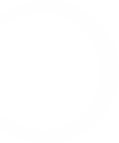
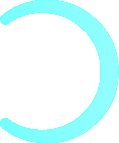
Added shields

Changed region(s): [[0.0, 0.0, 1.0, 1.0]]

diff --git a/Type/Scenes/GameScene.cs b/Type/Scenes/GameScene.cs
@@ -36,6 +36,8 @@ namespace Type.Scenes
         private readonly Button _FireButton;
         /// <summary> TODO Test button that adds probes </summary>
         private readonly Button _ProbeButton;
+        /// <summary> TODO Test button that adds shield </summary>
+        private readonly Button _ShieldButton;
         /// <summary> Floating analog stick </summary>
         private readonly AnalogStick _Stick;
         /// <summary> Text printer that displays the score </summary>
@@ -112,6 +114,14 @@ namespace Type.Scenes
                 Colour = new Vector4(1, 1, 1, (Single)0.5)
             };
             _ProbeButton = new Button(Int32.MaxValue, probeButton) { OnButtonPress = ProbeButtonOnPress };
+
+            Sprite shieldButton = new Sprite(Game.UiCanvas, Constants.ZOrders.UI, Texture.GetTexture("Content/Graphics/Buttons/shield_button.png"))
+            {
+                Position = new Vector2(320, -450),
+                Visible = true,
+                Colour = new Vector4(1, 1, 1, (Single)0.5)
+            };
+            _ShieldButton = new Button(Int32.MaxValue, shieldButton) { OnButtonPress = ShieldButtonPress };
 
             _Stick = new AnalogStick(new Vector2(-620, -220), 110);
             _Stick.RegisterListener(_Player);
@@ -200,6 +210,7 @@ namespace Type.Scenes
         {
             _FireButton.TouchEnabled = state;
             _ProbeButton.TouchEnabled = state;
+            _ShieldButton.TouchEnabled = state;
             _Stick.TouchEnabled = state;
         }
 
@@ -207,6 +218,7 @@ namespace Type.Scenes
         {
             _FireButton.Visible = state;
             _ProbeButton.Visible = state;
+            _ShieldButton.Visible = state;
             _Stick.Visible = state;
             _Stick.ListeningForMove = state;
         }
@@ -224,6 +236,11 @@ namespace Type.Scenes
         private void ProbeButtonOnPress(Button obj)
         {
             _Player.CreateProbes(1, 0);
+        }
+
+        private void ShieldButtonPress(Button obj)
+        {
+            _Player.AddShield();
         }
 
         #endregion

diff --git a/Type/Objects/Player/Player.cs b/Type/Objects/Player/Player.cs
@@ -85,9 +85,7 @@ namespace Type.Objects.Player
             _ProbeController.UpdatePosition(Position);
 
             _Shield = new Shield();
-            _Shield.Increase();
-            _Shield.Increase();
-            _Shield.Increase();
+            _Shield.UpdatePosition(Position);
 
             CollisionController.Instance.RegisterPlayer(this);
         }
@@ -104,6 +102,14 @@ namespace Type.Objects.Player
                 _ProbeController.AddProbe(0);
             }
             new AudioPlayer("Content/Audio/upgrade1.wav", false, AudioManager.Category.EFFECT, 1);
+        }
+
+        /// <summary>
+        /// Increases the shield level
+        /// </summary>
+        public void AddShield()
+        {
+            _Shield.Increase();
         }
 
         /// <summary>
@@ -196,5 +202,6 @@ namespace Type.Objects.Player
             onDeath.Invoke();
             OnDeath?.Invoke();
         }
+
     }
 }

diff --git a/Type/Objects/Enemies/BaseEnemy.cs b/Type/Objects/Enemies/BaseEnemy.cs
@@ -121,12 +121,19 @@ namespace Type.Objects.Enemies
             }
         }
 
+        public void Collide()
+        {
+            _HitPoints = 0;
+            _IsDestroyed = true;
+            new AudioPlayer("Content/Audio/hurt3.wav", false, AudioManager.Category.EFFECT, 1);
+            Destroy();
+        }
+
         /// <summary>
         /// Destroys the Enemy
         /// </summary>
         public virtual void Destroy()
         {
-            _HitPoints = 0;
             IsAlive = false;
             if (_IsDestroyed)
             {

diff --git a/Type/Controllers/CollisionController.cs b/Type/Controllers/CollisionController.cs
@@ -181,9 +181,13 @@ namespace Type.Controllers
             enemy.Hit();
         }
 
+        /// <summary>
+        /// Handles enemy collisions with the player
+        /// </summary>
+        /// <param name="enemy"></param>
         private void HandleEnemyPlayerCollision(BaseEnemy enemy)
         {
-            enemy.Destroy();
+            enemy.Collide();
             HandlePlayerHit();
         }
 
